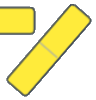
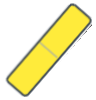
Herstel klasmeubels en maak ze verplaatsbaar

diff --git a/leerjaar-1/thema-1-verken-je-klas/classroom-game.js b/leerjaar-1/thema-1-verken-je-klas/classroom-game.js
@@ -70,7 +70,7 @@
         w:(sourceRight - sourceLeft) / referenceImage.width * 100,
         h:(sourceBottom - sourceTop) / referenceImage.height * 100,
         angle:0,
-        sprite:`assets/classroom-pieces/${kind}-${index}.png?v=1`
+        sprite:`assets/classroom-pieces/${kind}-${index}.png?v=2`
       });
     });
   });
@@ -92,7 +92,7 @@
     return `<span class="furniture-shape shape-${kind}" style="--angle:${angle}deg">${'<i></i>'.repeat(amount)}</span>`;
   }
   function placedHtml(items) {
-    return items.map(p => `<span class="classroom-placed" style="--x:${p.x}%;--y:${p.y}%;--w:${p.w}%;--h:${p.h}%;--angle:${p.angle}deg"><img src="${p.sprite}" alt=""></span>`).join('');
+    return items.map(p => `<span class="classroom-placed" data-placed-id="${p.id}" role="button" tabindex="0" aria-label="Verplaats ${p.label}" style="--x:${p.x}%;--y:${p.y}%;--w:${p.w}%;--h:${p.h}%;--angle:${p.angle}deg"><img src="${p.sprite}" alt=""></span>`).join('');
   }
 
   function addMenuButton() {
@@ -178,7 +178,16 @@
         const item=nearest.item;
         placed.push(item);remaining.splice(remaining.indexOf(item),1);selectedKind=remaining.some(p=>p.kind===item.kind)?item.kind:null;render();
       };
+      const movePlaced=(id,clientX,clientY)=>{
+        const index=placed.findIndex(item=>item.id===id);if(index<0)return;
+        const old=placed.splice(index,1)[0];remaining.push(old);
+        const r=plan.getBoundingClientRect(),x=(clientX-r.left)/r.width*100,y=(clientY-r.top)/r.height*100;
+        const nearest=remaining.filter(item=>item.kind===old.kind).map(item=>({item,distance:Math.hypot((x-item.x)/12,(y-item.y)/12)})).sort((a,b)=>a.distance-b.distance)[0];
+        if(!nearest||nearest.distance>1.15){remaining.splice(remaining.indexOf(old),1);placed.push(old);render();return}
+        remaining.splice(remaining.indexOf(nearest.item),1);placed.push(nearest.item);selectedKind=null;render();
+      };
       pieces.forEach(piece=>{piece.onclick=()=>choose(piece.dataset.kind);piece.onpointerdown=e=>{e.preventDefault();choose(piece.dataset.kind);piece.setPointerCapture(e.pointerId);ghost=piece.cloneNode(true);ghost.className='classroom-drag-ghost';document.body.append(ghost);ghost.style.left=e.clientX+'px';ghost.style.top=e.clientY+'px'};piece.onpointermove=e=>{if(ghost){ghost.style.left=e.clientX+'px';ghost.style.top=e.clientY+'px'}};piece.onpointerup=e=>{if(!ghost)return;ghost.remove();ghost=null;const el=document.elementFromPoint(e.clientX,e.clientY);if(el?.closest('.layout-plan'))tryPlace(e.clientX,e.clientY)};piece.onpointercancel=()=>{ghost?.remove();ghost=null}});
+      document.querySelectorAll('.classroom-placed').forEach(piece=>{piece.onpointerdown=e=>{e.preventDefault();e.stopPropagation();piece.setPointerCapture(e.pointerId);ghost=piece.cloneNode(true);ghost.className='classroom-drag-ghost classroom-placed-drag-ghost';document.body.append(ghost);ghost.style.left=e.clientX+'px';ghost.style.top=e.clientY+'px'};piece.onpointermove=e=>{if(ghost){ghost.style.left=e.clientX+'px';ghost.style.top=e.clientY+'px'}};piece.onpointerup=e=>{e.stopPropagation();if(!ghost)return;ghost.remove();ghost=null;const el=document.elementFromPoint(e.clientX,e.clientY);if(el?.closest('.layout-plan'))movePlaced(piece.dataset.placedId,e.clientX,e.clientY)};piece.onpointercancel=()=>{ghost?.remove();ghost=null}});
       plan.onclick=e=>selectedKind&&tryPlace(e.clientX,e.clientY);
       document.querySelector('#classReady').onclick=checkReady;
       requestAnimationFrame(()=>window.scrollTo(savedScrollX,savedScrollY));

diff --git a/leerjaar-1/thema-1-verken-je-klas/classroom-game.css b/leerjaar-1/thema-1-verken-je-klas/classroom-game.css
@@ -10,3 +10,4 @@
 .classroom-building{overflow:hidden}.classroom-building .topbar{height:56px}.classroom-building main{width:min(1240px,calc(100% - 16px));height:calc(100vh - 62px);margin:6px auto;overflow:hidden}.classroom-building .gamehead{max-width:1180px;height:36px;margin:0 auto 4px}.classroom-building .gamehead h1{font-size:26px}.classroom-building .classroom-layout-game{display:grid;grid-template-rows:auto auto minmax(0,1fr) auto;height:calc(100vh - 108px);max-width:1180px;padding:8px 12px;border-radius:18px}.classroom-building .listenline{margin-bottom:4px}.classroom-building .listenline button{width:40px;height:40px;font-size:20px}.classroom-building .prompt{font-size:18px}.classroom-building .classroom-piece-tray{flex-wrap:nowrap;gap:6px;margin:2px 0 6px}.classroom-building .classroom-piece{grid-template-rows:34px auto;min-width:0;flex:1;padding:3px 5px;border-width:2px;border-radius:10px;box-shadow:0 2px 0 #d9d3f4}.classroom-building .classroom-piece .furniture-shape{transform:scale(.55)}.classroom-building .classroom-piece b{font-size:.7rem;white-space:nowrap}.classroom-building .layout-plan{width:auto;max-width:100%;height:100%;max-height:100%;aspect-ratio:977/707}.classroom-building .classroom-build-actions{gap:10px;margin-top:5px;min-height:38px}.classroom-building .classroom-build-actions .primary{padding:8px 16px}.classroom-building .classroom-build-actions .feedback{min-height:0;font-size:15px}@media(max-width:760px){.classroom-building .classroom-piece b{font-size:0}.classroom-building .classroom-piece b span{font-size:.65rem}.classroom-building .prompt{font-size:15px}}
 .classroom-building .classroom-piece.is-empty{visibility:hidden;pointer-events:none}
 .classroom-building .layout-plan{aspect-ratio:885/650}
+.layout-plan .classroom-placed{pointer-events:auto;cursor:grab;touch-action:none}.layout-plan .classroom-placed:active{cursor:grabbing}.classroom-placed-drag-ghost{width:76px;height:58px;min-width:0;padding:0;background:transparent;border:0;box-shadow:none}.classroom-placed-drag-ghost img{display:block;width:100%;height:100%;object-fit:contain}

diff --git a/leerjaar-1/thema-1-verken-je-klas/index.html b/leerjaar-1/thema-1-verken-je-klas/index.html
@@ -10,11 +10,11 @@
   <link rel="stylesheet" href="extras.css">
   <link rel="stylesheet" href="fix-images.css?v=3">
   <link rel="stylesheet" href="l1-extra-games.css?v=6">
-  <link rel="stylesheet" href="classroom-game.css?v=7">
+  <link rel="stylesheet" href="classroom-game.css?v=8">
   <link rel="stylesheet" href="school-map-game.css?v=2">
   <script src="https://cdnjs.cloudflare.com/ajax/libs/qrcodejs/1.0.0/qrcode.min.js" defer></script>
   <script src="app.js?v=10" defer></script>
-  <script src="classroom-game.js?v=13" defer></script>
+  <script src="classroom-game.js?v=14" defer></script>
   <script src="school-map-game.js?v=19" defer></script>
   <style>.teacher-shortcut{display:inline-flex;align-items:center;justify-content:center;padding:.7rem .85rem;border-radius:1rem;background:#6552b8;color:#fff;text-decoration:none;font-weight:900;white-space:nowrap}@media(max-width:700px){.teacher-shortcut{font-size:0;padding:.65rem}.teacher-shortcut::first-letter{font-size:1.3rem}}</style>
 </head>
